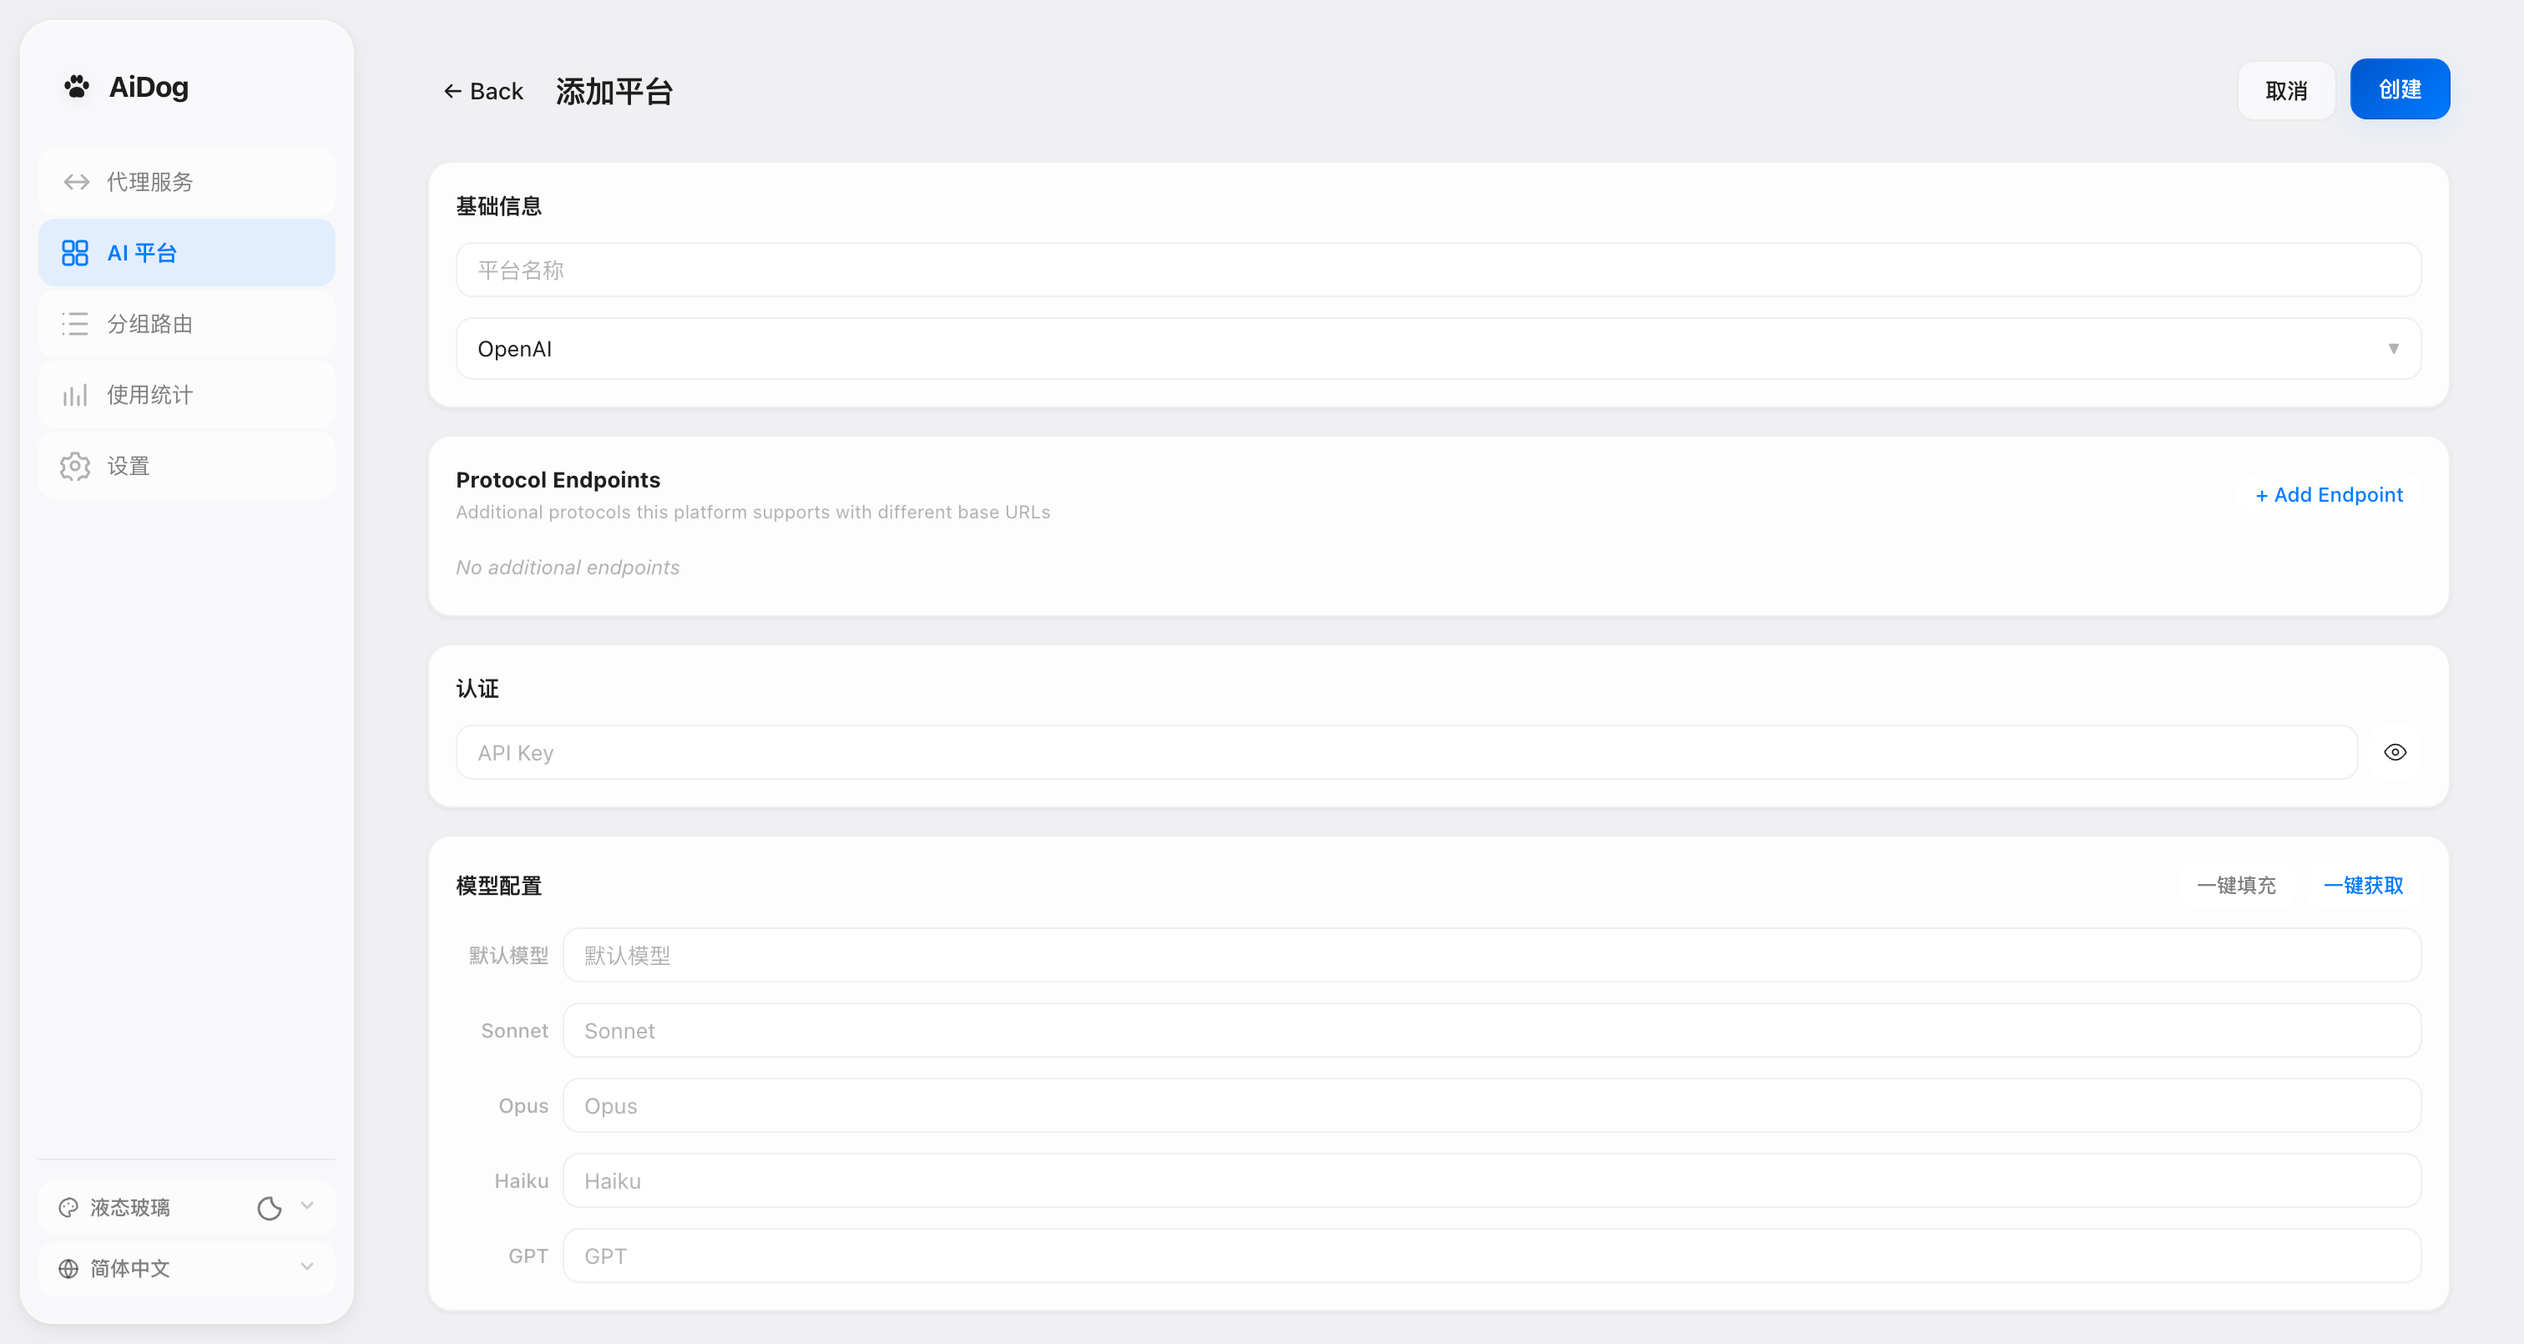
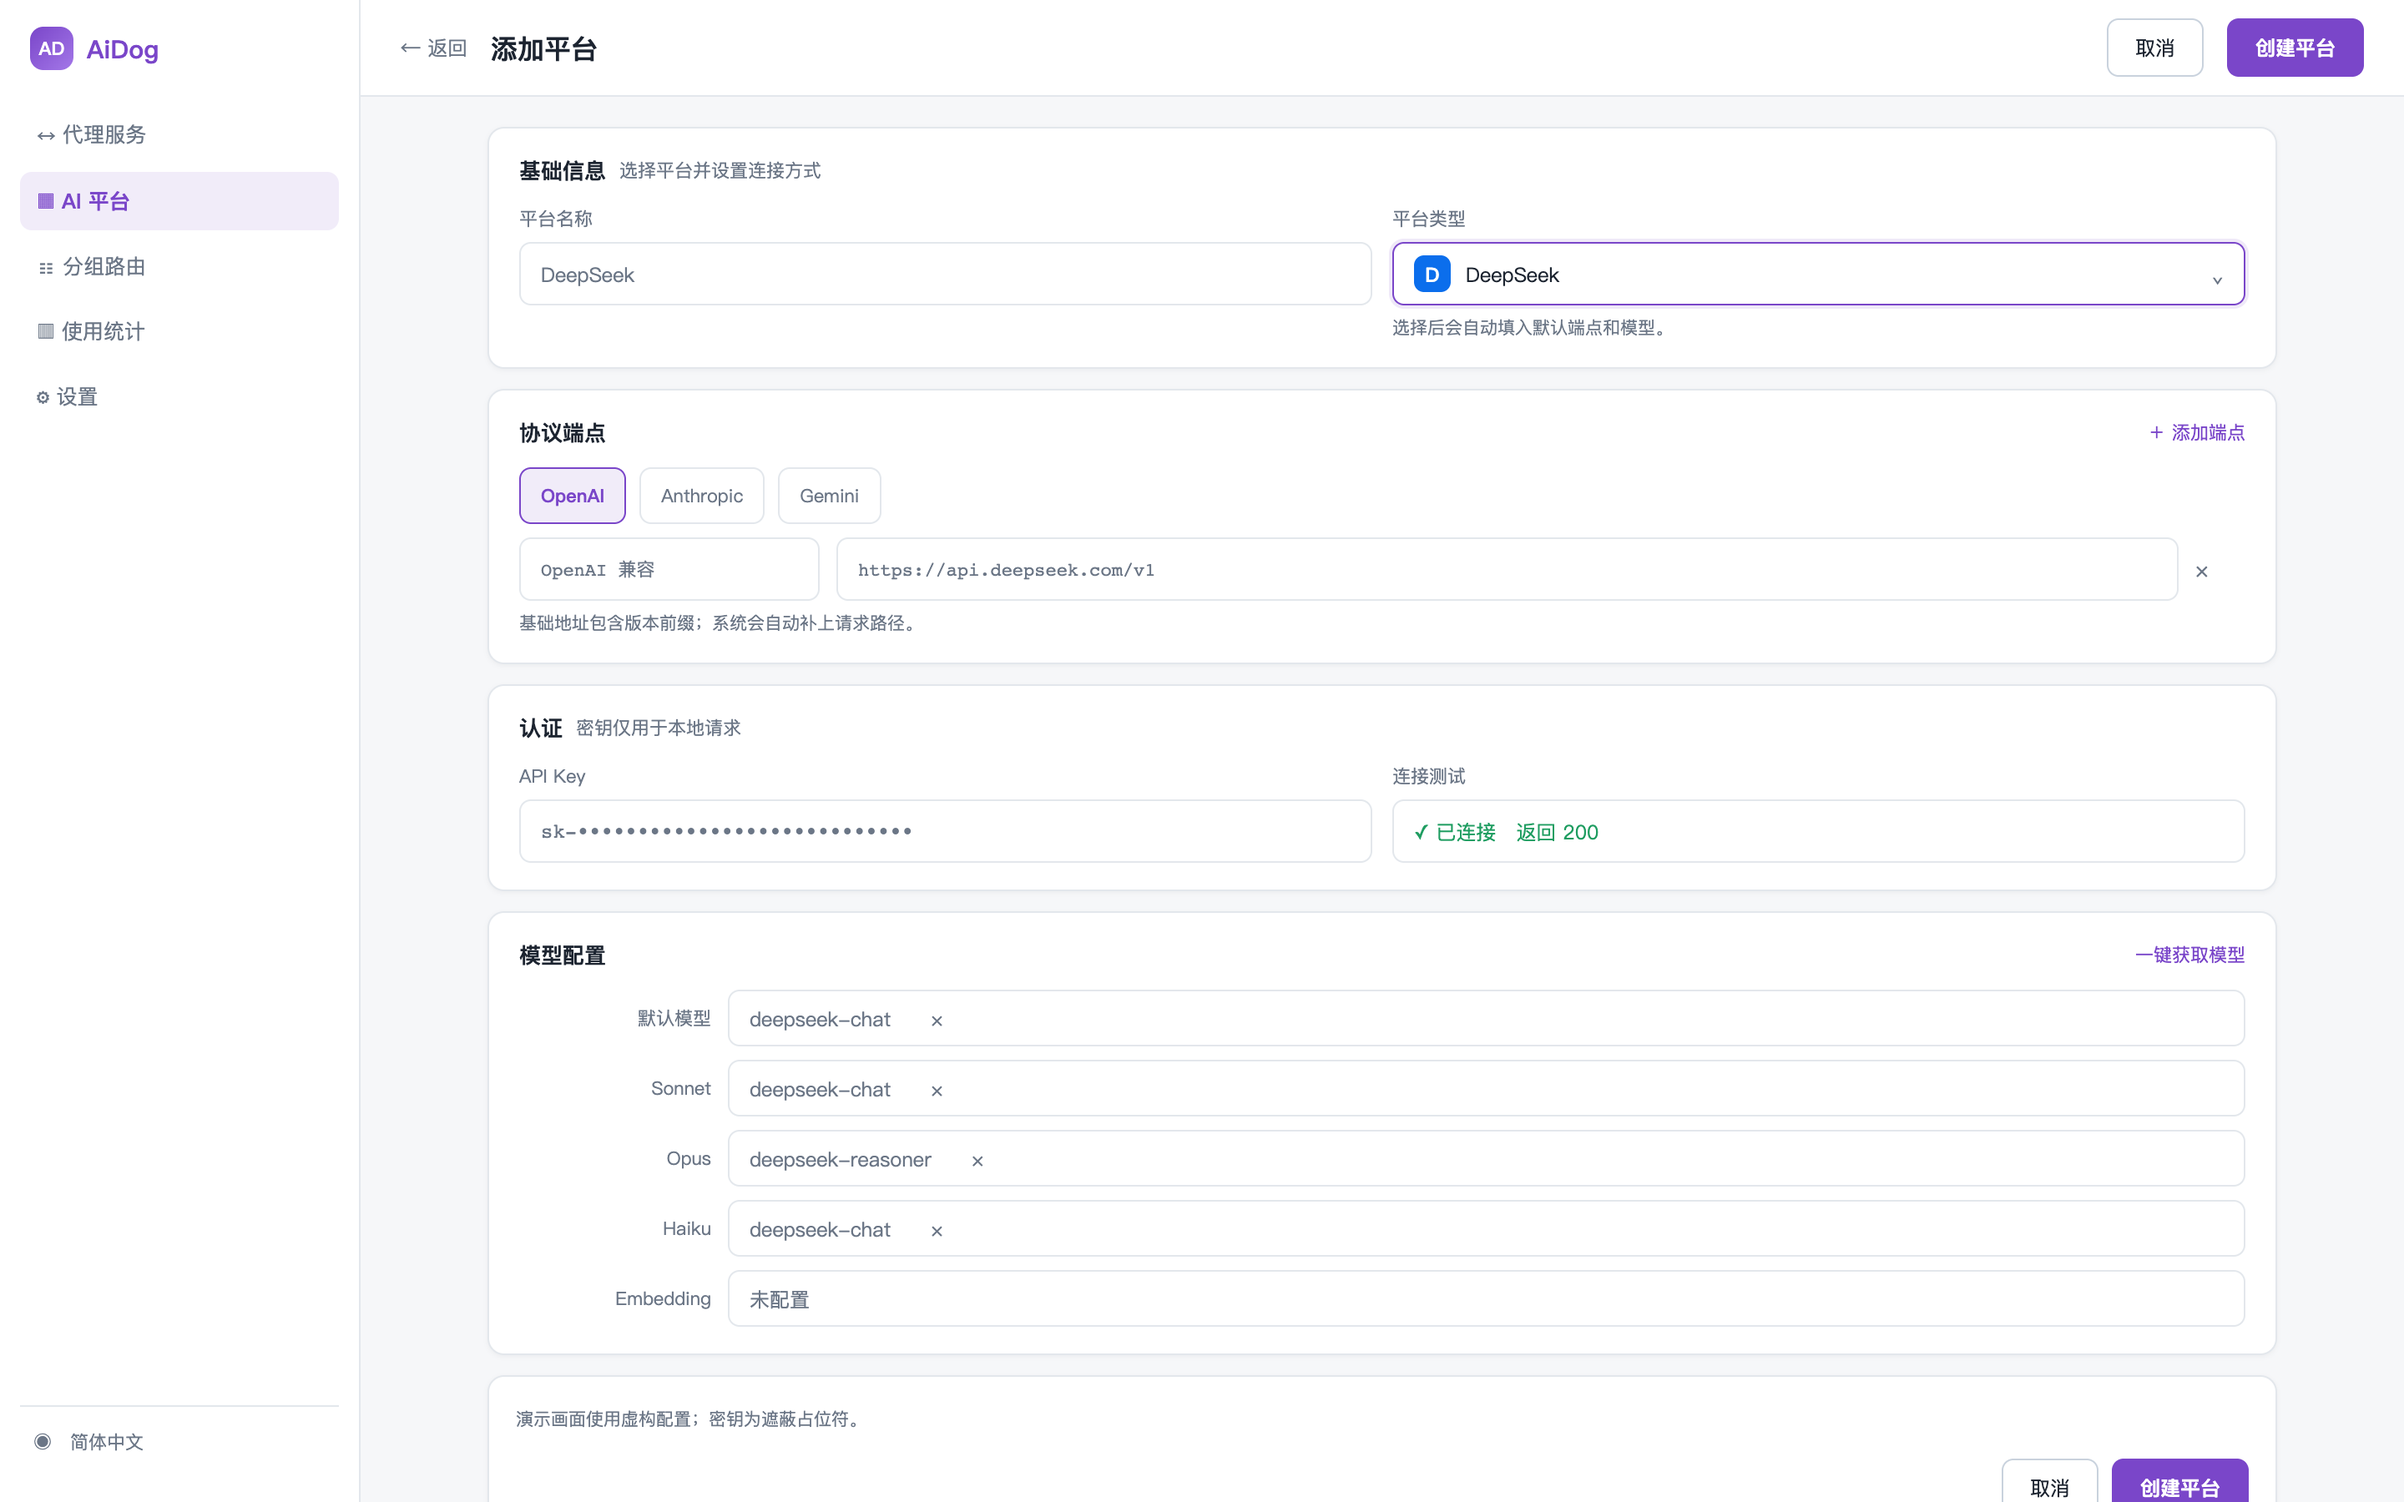
docs: refresh docs, glossary and screenshots to match current state

diff --git a/docs/agents/deferred-decisions.md b/docs/agents/deferred-decisions.md
@@ -9,6 +9,7 @@
 | 事项 | 理由 | 复活条件 | 来源 |
 |---|---|---|---|
 | 发布说明 `.github/release-notes/` 为空，「已填 RPM/TPM 起生效」一行待写 | 当时版本 0.1.19，尚未发版 | 下次 bump 版本（v0.1.20） | `2026-11-04.md:4` |
+<!-- 2026-11-18 复核：文件已存在，本条已消化 -->
 | embedding / rerank / jev 不占限频名额，只吃排除 | 判断题 | 用户反馈辅助请求超限 | `2026-11-04.md:4` |
 | 候选阶段模型级判定按请求模型名，目标模型不同则转发时才发现 | 正确修法需在筛选内解析每个候选的有效模型链，非小改动 | 日志里出现模型级超限却未换平台，或映射模型的模型级上限下候选排序 / 日志原因不对 | `2026-11-04.md:4,111` |
 | 筛选后并发抢占失败，最后候选落 503「all candidates exhausted」，无 rate_limit 标记；混合排除原因不返 rate_limit（与 `peak_disabled` 同口径） | 判断题 | 用户在日志里看不到限频原因 | `2026-11-04.md:4` |
@@ -32,6 +33,7 @@
 | 新增 route fail 需改 handler 白名单、decision if 链、`RoutingCanvas` 三处（Std2） | 既有结构，本次未恶化 | 与 Std1 同时重构 | `2026-11-05.md:528` |
 | 提交 1719f68e8 混入他会话 rustfmt 与 `blockedLabel` 改动 | 已入历史，不回滚 | 对方会话报告冲突 | `2026-11-05.md:588` |
 | `ModelVia.ts` 末行无分号 | ts-rs `type=` 覆写产物，`check:serde-ts` 绿 | `check:serde-ts` 或 `export_bindings` 再生成出现 diff | `2026-11-05.md:589` |
+<!-- 2026-11-18 复核：前提已消失 -->
 | 自定义槽匹配基于 `model_mappings` 映射后的名 | 与内置槽一致 | 用户反馈分组映射后自定义槽不命中 | `2026-11-05.md:590` |
 | `worth_keeping` 不修（`scheduling.rs`） | 实际无影响 | `record` 改为条件调用，或 `worth_keeping` 被独立调用 | `2026-11-08.md:27`（2026-11-08） |
 

diff --git a/README.md b/README.md
@@ -26,7 +26,10 @@
 
 AiDog 是一款基于 Tauri 的**桌面端 AI API 网关**。它在你的电脑本地统一管理、路由和监控 50+ AI 平台的请求 —— 把分散在各处的 API Key、模型映射、负载均衡、用量统计、编程助手配置收拢到一个应用。无需后台服务、无需上云，所有数据本地 SQLite 存储。
 
-![AiDog — 主面板](screenshots/dashboard.png)
+<picture>
+  <source media="(prefers-color-scheme: dark)" srcset="screenshots/dashboard-dark.png">
+  <img src="screenshots/dashboard.png" alt="AiDog — 主面板">
+</picture>
 
 ## 它解决什么问题
 
@@ -132,7 +135,10 @@ chmod +x aidog_0.1.0_amd64.AppImage
 
 ### 第 1 步：添加平台
 
-![AiDog — 添加平台](screenshots/add-platform.png)
+<picture>
+  <source media="(prefers-color-scheme: dark)" srcset="screenshots/add-platform-dark.png">
+  <img src="screenshots/add-platform.png" alt="AiDog — 添加平台">
+</picture>
 
 1. 左侧导航点 **「平台」**
 2. 点 **「+ 添加平台」**
@@ -208,7 +214,10 @@ name = "o3"
 
 > 🔐 **分组认证** — 代理地址中 Key 填**分组名**（Group Name），AiDog 按 Bearer token 路由到对应分组：`Authorization: Bearer <group_name>`。
 
-![AiDog — 设置页](screenshots/settings.png)
+<picture>
+  <source media="(prefers-color-scheme: dark)" srcset="screenshots/settings-dark.png">
+  <img src="screenshots/settings.png" alt="AiDog — 设置页">
+</picture>
 
 ## 从源码构建
 

diff --git a/docs/agents/issue-tracker.md b/docs/agents/issue-tracker.md
@@ -31,6 +31,6 @@ Used by `/wayfinder`. The **map** is a file with one **child** file per ticket.
 
 ## Migration note
 
-2026-09-14: migrated from GitHub Issues back to local markdown tickets (`.scratch/<feature-slug>/`). History: 2026-09-12 local→GitHub, now GitHub→local again. GitHub Issues (`lazygophers/aidog`) 保留为历史存档（含已关闭票 #23–#41）；新工作一律走 `.scratch/`。`.scratch/memory.md`（会话交接记忆，用户全局约定）不是票库，不受影响。
+2026-09-14: migrated from GitHub Issues back to local markdown tickets (`.scratch/<feature-slug>/`). History: 2026-09-12 local→GitHub, now GitHub→local again. GitHub Issues (`lazygophers/aidog`) 保留为历史存档（含已关闭票 #23–#41）；新工作一律走 `.scratch/`。`.scratch/memory/<日期>.md`（会话交接记忆，用户全局约定）不是票库，不受影响。
 
 2026-11-15 更新：GitHub Issues 再次作为开发任务入口活跃使用（issue 61 / 64 / 157 / 160 各轮即此）；经 GitHub issue 派下的**开发任务**按 `.claude/rules/shared-worktree.md`「GitHub issue 开发」节执行——独立 worktree + 分支 + PR（分支从 origin/master 开、带 issue 号，默认授权 push 并建 PR）。`.scratch/` 本地票仍照旧。

diff --git a/docs/docs/en/guide/start/getting-started.md b/docs/docs/en/guide/start/getting-started.md
@@ -6,13 +6,13 @@ description: Set up an Rspress project, run local development, build production 
 
 ## Project structure
 
-After creating a project with `create-rspress`, you will get the following project structure:
+This repository's documentation site has the following structure:
 
 - `docs/` — The documentation source directory, configured via `root` in `rspress.config.ts`.
-- `docs/_nav.json` — The navigation bar configuration.
-- `docs/guide/_meta.json` — The sidebar configuration for the guide section.
-- `docs/public/` — Static assets directory.
-- `theme/` — Optional custom theme directory, generated when you choose the custom theme scaffold.
+- `docs/docs/zh/_nav.json` — The top navigation bar configuration for the zh locale site.
+- `docs/docs/en/guide/_meta.json` — The sidebar configuration for the guide section (each section has its own `_meta.json`).
+- `docs/docs/public/` — Static assets directory (site logo and icons).
+- `docs/theme/` — Optional custom theme directory; this site overrides the default theme here.
 - `rspress.config.ts` — The Rspress configuration file.
 
 ## Development

diff --git a/docs/agents/domain.md b/docs/agents/domain.md
@@ -18,8 +18,7 @@ Single-context repo (this repo — root `GLOSSARY.md` + `docs/adr/`):
 /
 ├── GLOSSARY.md
 ├── docs/adr/
-│   ├── 0001-event-sourced-orders.md
-│   └── 0002-postgres-for-write-model.md
+│   └── <NN>-<slug>.md
 └── src/
 ```
 
